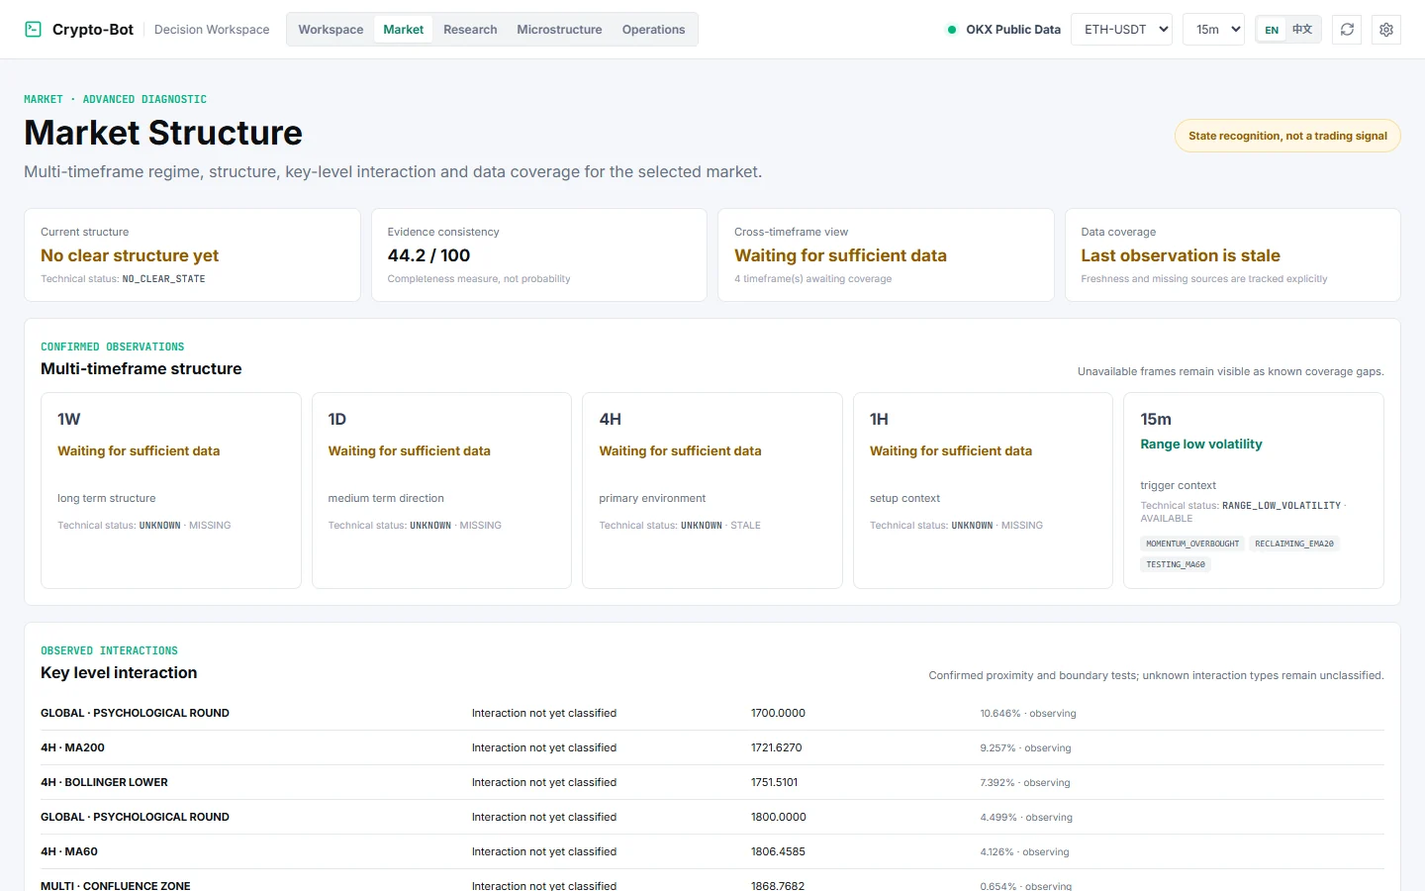
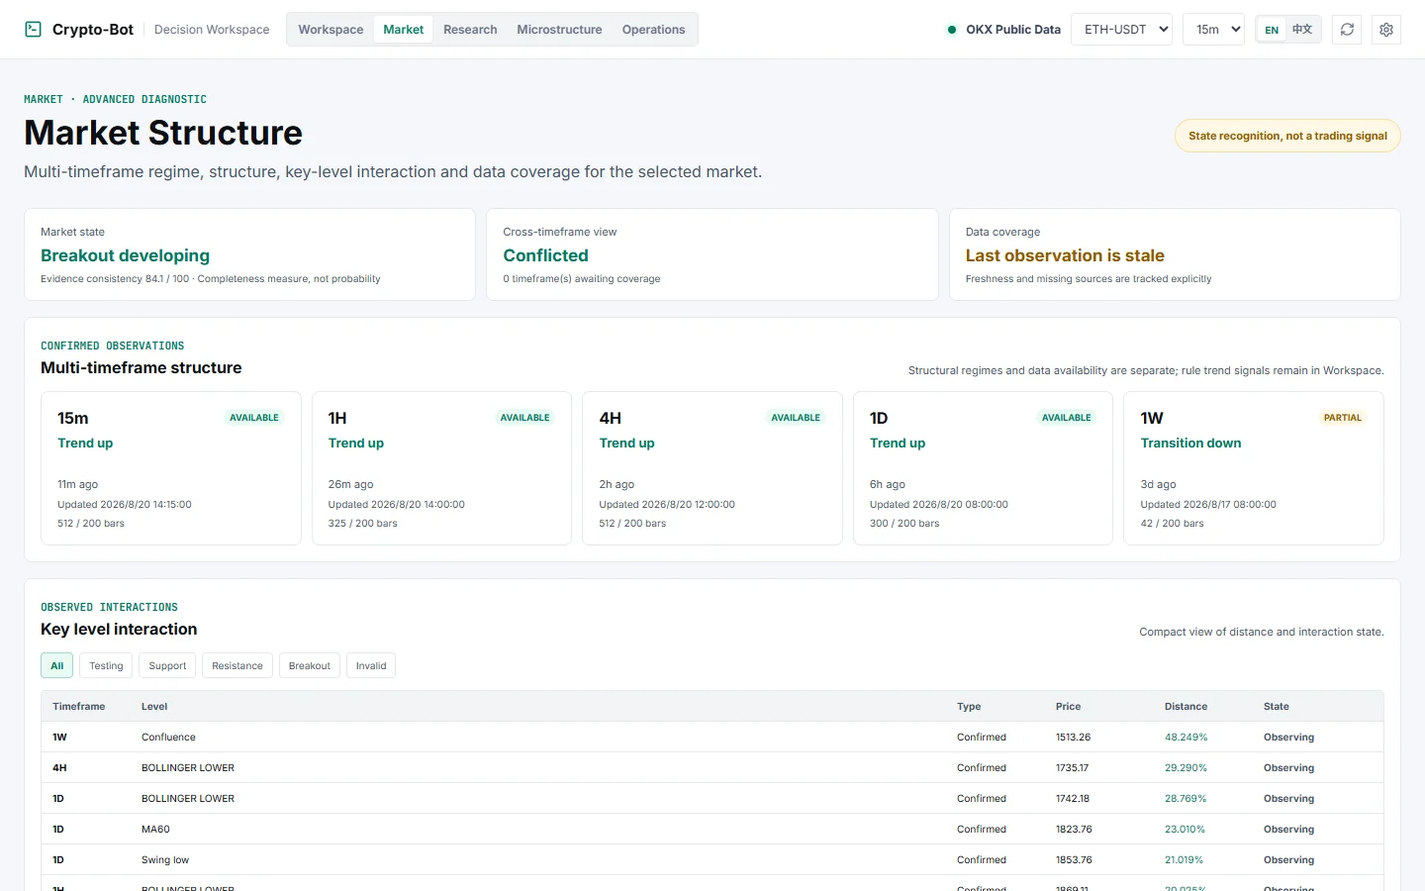
docs: finalize portfolio README and live demo

diff --git a/scripts/build_portfolio_assets.py b/scripts/build_portfolio_assets.py
@@ -22,6 +22,8 @@ ASSETS = ROOT / "docs" / "assets" / "portfolio"
 DEMO_DIR = ROOT / "artifacts" / "portfolio-demo"
 API_URL = "http://127.0.0.1:8765/api/health"
 UI_URL = "http://127.0.0.1:4173/"
+CAPTURE_URL = os.environ.get("PORTFOLIO_BASE_URL", UI_URL)
+PRODUCTION_CAPTURE = CAPTURE_URL.rstrip("/") == "https://bitcoinbot.uk"
 
 
 def ensure_runtime_path() -> None:
@@ -126,7 +128,7 @@ def convert_screenshots() -> list[Path]:
     from PIL import Image
 
     outputs: list[Path] = []
-    for name in ("workspace", "market", "research", "decision-trace"):
+    for name in ("workspace", "market", "research", "ai-report"):
         source = RUNTIME / f"{name}.png"
         target = ASSETS / f"{name}.webp"
         with Image.open(source) as image:
@@ -181,7 +183,7 @@ def verify_images(paths: list[Path]) -> list[dict[str, object]]:
 
 
 def main() -> int:
-    if not (ROOT / "data_cache" / "paper_trades.db").exists():
+    if not PRODUCTION_CAPTURE and not (ROOT / "data_cache" / "paper_trades.db").exists():
         raise RuntimeError("A real persisted data_cache/paper_trades.db is required; no demo returns are synthesized.")
     ensure_runtime_path()
     ensure_pillow()
@@ -189,44 +191,51 @@ def main() -> int:
     ffmpeg = ffmpeg_executable()
     started: list[subprocess.Popen[bytes]] = []
     try:
-        api = None
-        if not http_ready(API_URL):
-            api = hidden_process([sys.executable, "-m", "dashboard.paper_api"], ROOT)
-            started.append(api)
-        wait_ready(API_URL, api)
+        if not PRODUCTION_CAPTURE:
+            api = None
+            if not http_ready(API_URL):
+                api = hidden_process([sys.executable, "-m", "dashboard.paper_api"], ROOT)
+                started.append(api)
+            wait_ready(API_URL, api)
 
-        frontend = None
-        if not http_ready(UI_URL):
-            npm = shutil.which("npm.cmd") or shutil.which("npm")
-            if not npm:
-                raise RuntimeError("npm is required to start the portfolio capture frontend")
-            frontend = hidden_process([npm, "run", "dev", "--", "--port", "4173"], FRONTEND)
-            started.append(frontend)
-        wait_ready(UI_URL, frontend)
+            frontend = None
+            if not http_ready(UI_URL):
+                npm = shutil.which("npm.cmd") or shutil.which("npm")
+                if not npm:
+                    raise RuntimeError("npm is required to start the portfolio capture frontend")
+                frontend = hidden_process([npm, "run", "dev", "--", "--port", "4173"], FRONTEND)
+                started.append(frontend)
+            wait_ready(UI_URL, frontend)
 
         subprocess.run(["node", "scripts/capture-portfolio.mjs"], cwd=FRONTEND, check=True)
         screenshots = convert_screenshots()
 
         demo = DEMO_DIR / "crypto-bot-demo.mp4"
+        capture_metadata = json.loads((RUNTIME / "demo.webm.json").read_text(encoding="utf-8"))
+        story_start = max(0.0, float(capture_metadata["storyStartSeconds"]) - 0.15)
         run_ffmpeg(ffmpeg, [
-            "-ss", "2.7", "-i", str(RUNTIME / "demo.webm"), "-t", "41.5",
-            "-vf", "scale=1280:720:flags=lanczos,fps=30",
-            "-c:v", "libx264", "-preset", "medium", "-crf", "23", "-pix_fmt", "yuv420p",
+            "-ss", f"{story_start:.3f}", "-i", str(RUNTIME / "demo.webm"), "-t", "41",
+            "-vf", "scale=1920:1080:flags=lanczos,fps=30",
+            "-c:v", "libx264", "-preset", "medium", "-crf", "20", "-pix_fmt", "yuv420p",
             "-movflags", "+faststart", "-an", str(demo),
         ])
 
         gif = ASSETS / "crypto-bot-overview.gif"
         gif_story = (
-            "[0:v]trim=start=4:end=7,setpts=PTS-STARTPTS[w];"
-            "[0:v]trim=start=10:end=13,setpts=PTS-STARTPTS[m];"
-            "[0:v]trim=start=17:end=20,setpts=PTS-STARTPTS[r];"
-            "[0:v]trim=start=26:end=29,setpts=PTS-STARTPTS[d];"
-            "[w][m][r][d]concat=n=4:v=1:a=0,fps=9,scale=1120:-1:flags=lanczos,split[s0][s1];"
+            "[0:v]fps=9,scale=1120:630:flags=lanczos,setpts=PTS-STARTPTS[w];"
+            "[1:v]fps=9,scale=1120:630:flags=lanczos,setpts=PTS-STARTPTS[m];"
+            "[2:v]fps=9,scale=1120:630:flags=lanczos,setpts=PTS-STARTPTS[r];"
+            "[3:v]fps=9,scale=1120:630:flags=lanczos,setpts=PTS-STARTPTS[a];"
+            "[w][m][r][a]concat=n=4:v=1:a=0,split[s0][s1];"
             "[s0]palettegen=max_colors=128:stats_mode=diff[p];"
             "[s1][p]paletteuse=dither=bayer:bayer_scale=3"
         )
         run_ffmpeg(ffmpeg, [
-            "-i", str(demo), "-filter_complex", gif_story, "-loop", "0", str(gif),
+            "-loop", "1", "-t", "3", "-i", str(RUNTIME / "workspace.png"),
+            "-loop", "1", "-t", "3", "-i", str(RUNTIME / "market.png"),
+            "-loop", "1", "-t", "3", "-i", str(RUNTIME / "research.png"),
+            "-loop", "1", "-t", "3", "-i", str(RUNTIME / "ai-report.png"),
+            "-filter_complex", gif_story, "-loop", "0", str(gif),
         ])
 
         manifest = {

diff --git a/README.md b/README.md
@@ -2,52 +2,60 @@
 
 A production-style crypto strategy research and paper-trading platform focused on causal evaluation, reproducible experiments, and out-of-time validation.
 
-[![CI](https://github.com/kevin6667890/crypto-bot/actions/workflows/ci.yml/badge.svg?branch=main)](https://github.com/kevin6667890/crypto-bot/actions/workflows/ci.yml) ![Python](https://img.shields.io/badge/Python-3.11+-3776AB?logo=python&logoColor=white) ![React](https://img.shields.io/badge/React-18-149ECA?logo=react&logoColor=white) ![TypeScript](https://img.shields.io/badge/TypeScript-5-3178C6?logo=typescript&logoColor=white) ![Docker](https://img.shields.io/badge/Docker-Compose-2496ED?logo=docker&logoColor=white) ![Research only](https://img.shields.io/badge/Execution-Paper%20only-16856B)
+[![CI](https://github.com/kevin6667890/crypto-bot/actions/workflows/ci.yml/badge.svg?branch=main)](https://github.com/kevin6667890/crypto-bot/actions/workflows/ci.yml) ![Python](https://img.shields.io/badge/Python-3.11+-3776AB?logo=python&logoColor=white) ![React](https://img.shields.io/badge/React-18-149ECA?logo=react&logoColor=white) ![TypeScript](https://img.shields.io/badge/TypeScript-5-3178C6?logo=typescript&logoColor=white) ![Docker](https://img.shields.io/badge/Docker-Compose-2496ED?logo=docker&logoColor=white) ![Paper only](https://img.shields.io/badge/Execution-Research%20%2F%20Paper%20Only-16856B)
+
+**[Live Demo](https://bitcoinbot.uk)** · [Architecture](#architecture) · [Documentation](#documentation)
+
+Public research and paper-trading interface. No exchange account, API key, or live trading is required.
 
 ![Crypto-Bot product overview](docs/assets/portfolio/crypto-bot-overview.gif)
 
-Crypto-Bot joins real OKX market data, a deterministic decision engine, causal historical research, governed strategy discovery, and paper execution in one auditable workspace. It sends no live exchange orders; AI is limited to descriptive summaries and explanations.
+Crypto-Bot combines real OKX market data, deterministic decision logic, causal historical research, governed strategy discovery, evidence-grounded AI analysis, and paper execution in one auditable workspace. It is a full-stack engineering project—not a live trading service—and it never sends orders to an exchange.
 
 ## Why this is more than a backtester
 
 1. **Causal evaluation.** Signals are confirmed at candle close and executed at the next candle open, after complete indicator warm-up and without future-bar leakage.
-2. **Research leakage control.** Experiment families lock development, primary holdout, and optional final OOT periods. Holdout reveal is explicit and durable; later search-space changes mark the evidence as contaminated.
-3. **Reproducible lineage.** Canonical configuration hashes, SHA-256 signal IDs, persisted run lineage, and exact Paper/Research reconciliation make results traceable across restarts.
-4. **Validation beyond in-sample results.** Walk-forward, hidden holdout, final OOT, ETH/SOL transfer, bootstrap/Monte Carlo, and stress tests are recorded. OOT and transfer evidence never changes optimization ranking.
-5. **Manual strategy lifecycle.** Discovery → validation → Shadow → Paper promotion is evidence-driven and manual. Backtest return alone cannot activate a strategy.
+2. **Research governance.** Experiment families separate development, walk-forward validation, hidden holdout, final out-of-time (OOT), and cross-asset transfer evidence. Search-space changes after a reveal mark the family as contaminated.
+3. **Reproducible lineage.** Canonical configuration hashes, SHA-256 signal identities, persisted evidence, and exact Paper/Research reconciliation make results traceable across processes and restarts.
+4. **Production-style operations.** The system combines a React UI, Python services, persistent jobs, SQLite evidence stores, public market-data ingestion, health checks, alerts, and Docker/Nginx deployment.
+5. **Explainable decisions.** Market Structure and Decision Trace show what the deterministic engine observed, which rule blocked action, and what confirmation would be needed next.
 
 ## At a glance
 
 | | |
 |---|---|
+| Live demo | [bitcoinbot.uk](https://bitcoinbot.uk) |
 | Frontend | React, TypeScript, Vite, lightweight-charts |
-| Backend | Python Paper API and deterministic research services |
-| Storage | SQLite with persisted jobs, evidence, and paper ledger |
-| Market data | OKX public candles, trades, ticker, and perpetual OI |
-| Assets | BTC, ETH, and SOL research coverage |
-| Research | Causal backtest, walk-forward, holdout, final OOT, transfer |
-| Execution | Paper only; no exchange keys or live orders |
-| Deployment | Docker Compose and Nginx |
-| AI boundary | Descriptive market summaries and explanations only |
+| Backend | Python Paper API, research services, and background workers |
+| Storage | SQLite stores for jobs, evidence lineage, AI reports, and the paper ledger |
+| Market data | Real OKX public candles, trades, ticker, and perpetual open interest |
+| Assets | BTC, ETH, and SOL |
+| Research | Causal backtesting, walk-forward, hidden holdout, final OOT, and transfer tests |
+| Execution | Paper only; no exchange credentials or live order path |
+| AI role | Audited explanation of persisted evidence; never a strategy or execution authority |
+| Deployment | Docker Compose with an Nginx-served React frontend and same-origin API |
 
 ## Architecture
 
 ```mermaid
 flowchart TD
-    OKX[OKX public market data] --> DC[Collection, confirmation, cache]
-    DC --> DE[Canonical decision engine]
-    DE --> PAPER[Paper workspace]
-    DE --> RESEARCH[Causal research and backtest]
-    DE --> ROUTER[Market state and decision trace]
-    RESEARCH --> DISCOVERY[Strategy discovery]
-    RESEARCH --> GOVERNANCE[Validation and research governance]
-    PAPER --> DB[(SQLite evidence and paper ledger)]
-    ROUTER --> DB
-    DISCOVERY --> DB
-    GOVERNANCE --> DB
-    DB --> API[Python Paper API]
-    API --> UI[React and TypeScript UI]
+    OKX[OKX public market data] --> DATA[Collection, confirmation, quality and cache]
+    DATA --> ENGINE[Deterministic facts and decision engines]
+    ENGINE --> STATE[Market state and Decision Trace]
+    ENGINE --> RESEARCH[Causal research and strategy discovery]
+    ENGINE --> PAPER[Paper execution and risk controls]
+    STATE --> STORE[(Persisted evidence and lineage)]
+    RESEARCH --> STORE
+    PAPER --> STORE
+    STORE --> API[Python API]
+    API --> UI[React and TypeScript product UI]
+    STORE --> CONTEXT[Read-only AI evidence compiler]
+    CONTEXT --> REPORT[Structured AI report]
+    REPORT --> AUDIT[Deterministic report audit and persistence]
+    AUDIT --> API
 ```
+
+The AI path has no control edge back into signals, research ranking, risk rules, strategy activation, or paper execution. Deterministic engines and persisted evidence remain the source of truth.
 
 ## Research lifecycle
 
@@ -63,12 +71,12 @@ flowchart LR
     H --> E[(Persisted evidence lineage)]
     O --> E
     X --> E
-    N[Holdout, OOT, and transfer never feed back into ranking] -.-> H
+    N[Holdout, OOT and transfer never feed back into ranking] -.-> H
     N -.-> O
     N -.-> X
 ```
 
-Only development and walk-forward evidence can affect optimization ranking. Later stages test a frozen candidate and remain descriptive evidence for a manual lifecycle decision.
+Only development and walk-forward evidence can affect optimization ranking. Holdout, final OOT, and transfer results test a frozen candidate; they cannot feed back into ranking and remain evidence for a manual lifecycle decision.
 
 ## Product tour
 
@@ -78,40 +86,51 @@ Only development and walk-forward evidence can affect optimization ranking. Late
     <td><img src="docs/assets/portfolio/market.webp" alt="Market Structure with timeframe and coverage diagnostics"></td>
   </tr>
   <tr>
-    <td><strong>Workspace</strong><br>Current market context, deterministic decision, rule evidence, and paper risk state.</td>
-    <td><strong>Market Structure</strong><br>Multi-timeframe state, key-level interaction, freshness, and explicit coverage gaps.</td>
+    <td><strong>Workspace</strong><br>Live market context, a deterministic paper decision, rule evidence, risk state, and the latest eligible AI analysis.</td>
+    <td><strong>Market Structure</strong><br>Multi-timeframe state, key-level interaction, data lineage, freshness, and explicit coverage gaps.</td>
   </tr>
   <tr>
     <td><img src="docs/assets/portfolio/research.webp" alt="Optimization Lab with persisted experiment evidence"></td>
-    <td><img src="docs/assets/portfolio/decision-trace.webp" alt="Decision Trace explaining a no-trade outcome"></td>
+    <td><img src="docs/assets/portfolio/ai-report.webp" alt="Audited AI analysis with persisted report history"></td>
   </tr>
   <tr>
-    <td><strong>Research</strong><br>Persisted optimization evidence, locked holdouts, validation suites, and contamination tracking.</td>
-    <td><strong>Decision Trace</strong><br>Selected strategy family, supporting evidence, blockers, and the next required confirmation.</td>
+    <td><strong>Research</strong><br>Persisted experiment families, locked holdouts, validation suites, and contamination tracking.</td>
+    <td><strong>AI Analysis</strong><br>Audit-eligible explanation, source-state freshness, persisted history, and reopenable report deep links.</td>
   </tr>
 </table>
 
+## Evidence-grounded AI analysis
+
+The AI report layer consumes a frozen, read-only package of deterministic market and research evidence. Depending on report mode, that package can include confirmed multi-timeframe state, data-quality and lineage flags, order-flow observations, key levels, scenarios, and bounded paper-position context.
+
+Reports are structured, persisted, and tied to their source context, prompt/model versions, evidence registry, and deterministic audit. The UI exposes the latest eligible analysis plus report history and `report_id` deep links. Older reports remain inspectable with freshness labeling; pending or failed-audit reports never expose their generated body as a valid market explanation.
+
+AI can summarize evidence, surface uncertainty and counterevidence, and explain scenarios. It cannot change deterministic signals, choose optimization parameters, influence research ranking, modify risk controls, activate a strategy, or create an order.
+
 ## Engineering highlights
 
-- One canonical `evaluate_decision` path shared by paper execution and historical research.
+- One canonical decision path shared by paper execution and historical research.
 - Canonical JSON configuration hashes and deterministic signal identities.
-- Restart-safe SQLite job queue with limits, deduplication, cancellation, and retries.
-- Real OKX ingestion with confirmation filtering, deduplication, pagination, gap reporting, and caching.
-- Causal next-bar execution with explicit fees, slippage, and conservative intrabar collision handling.
-- Durable experiment-family lineage, holdout reveal, OOT suites, and contamination audit flags.
+- Restart-safe SQLite job queues with limits, deduplication, cancellation, and retries.
+- Real OKX ingestion with confirmation filtering, symbol normalization, pagination, gap reporting, and caching.
+- Explicit UTC candle lineage across BTC, ETH, and SOL.
+- Causal next-bar execution with fees, adverse slippage, and conservative intrabar collision handling.
+- Durable experiment-family lineage, holdout reveal, OOT suites, transfer tests, and contamination flags.
 - Exact Paper/Research reconciliation instead of inferred matches.
-- Dockerized Python API and Nginx-served React production architecture.
+- AI report identity, immutable evidence registries, deterministic claim audits, retention controls, and kill-switch protection.
+- Dockerized Python services and an Nginx-served React production architecture.
 
 ## Research integrity
 
-- Research and paper trading only; the project does not place live orders.
-- Confirmed candles only, causal indicators, complete slow-MA warm-up, and next-candle-open execution.
+- Confirmed candles only, causal indicators, complete slow-moving-average warm-up, and next-candle-open execution.
 - Fees and adverse slippage are applied; a same-bar stop/target collision records the stop first.
-- Historical CVD/OI is never fabricated. Missing or partial coverage remains visible and cannot silently become zero.
-- Primary holdouts are hidden until an explicit, durable reveal. Final OOT and cross-asset results never affect ranking.
-- Strategy promotion is manual; there is no AI parameter search, online self-learning, or automatic activation.
+- Historical cumulative volume delta (CVD) and open interest (OI) are never fabricated. Missing or partial coverage remains visible and cannot silently become zero.
+- Primary holdouts stay hidden until an explicit, durable reveal. Final OOT and cross-asset evidence never affect ranking.
+- Strategy promotion is manual. There is no AI parameter search, online self-learning, automatic activation, or live exchange order path.
 
 ## Quick start
+
+For a no-install walkthrough, open the **[Live Demo](https://bitcoinbot.uk)**.
 
 ```bash
 # Backend
@@ -124,7 +143,7 @@ npm ci
 npm run dev
 ```
 
-Open `http://127.0.0.1:5173`.
+Open `http://127.0.0.1:5173` for local development.
 
 ```bash
 # Docker
@@ -133,16 +152,19 @@ docker compose up -d --build paper-api frontend
 
 ## Reproduce the portfolio assets
 
-The screenshots, looping README GIF, and approximately 41-second H.264 demo are generated from the real application with Playwright and ffmpeg:
+The screenshots, looping README GIF, and approximately 41-second H.264 demo are generated from the application with Playwright and ffmpeg:
 
 ```bash
+# Capture the deployed product shown in this README (PowerShell)
+$env:PORTFOLIO_BASE_URL="https://bitcoinbot.uk"
 python scripts/build_portfolio_assets.py
 ```
 
-The command connects to healthy local services or starts them, captures fixed viewports, converts and verifies the media, prints dimensions and file sizes, and shuts down only the processes it created. It requires an existing real `data_cache/paper_trades.db`; it never synthesizes profitable results. The MP4 is written to `artifacts/portfolio-demo/crypto-bot-demo.mp4` and intentionally ignored by Git.
+The workflow captures fixed viewports, converts and verifies the media, performs visible-text privacy checks, and shuts down only processes it created. Without `PORTFOLIO_BASE_URL`, local capture requires an existing real `data_cache/paper_trades.db`; it never synthesizes profitable results. The MP4 is written to `artifacts/portfolio-demo/crypto-bot-demo.mp4` and intentionally ignored by Git.
 
 ## Documentation
 
+- [AI analysis architecture and safety boundary](docs/ai_market_analysis/README.md)
 - [Research and strategy discovery architecture](docs/strategy_discovery_architecture.md)
 - [Research API](docs/API.md)
 - [Operations and deployment](docs/OPERATIONS.md)

diff --git a/docs/ai_market_analysis/README.md b/docs/ai_market_analysis/README.md
@@ -1,28 +1,62 @@
-# Phase AI-1: professional market-analysis contract
+# Evidence-grounded AI market analysis
 
-This directory is a design and static-validation deliverable. It does not change a production API, collector, aggregation task, strategy, order path, prompt, database, or deployment. Every value under `fixtures/ai_market_analysis` is synthetic design-test data, never a claim about the current market.
+The AI market-analysis subsystem turns frozen deterministic evidence into structured, auditable explanations. It is an analysis and presentation layer: it does not own market facts, strategy selection, optimization, risk rules, activation, or order execution.
 
-The target flow is:
+## Current flow
 
-`raw observations → deterministic indicators/quality → deterministic structure → staged order-flow attribution → levels/scenarios → MarketAnalysisContext → LLM wording → fact audit → UI`.
+```text
+confirmed public observations
+  -> deterministic market facts, quality, structure, levels and scenarios
+  -> immutable context and evidence registries
+  -> bounded structured report request
+  -> provider-generated report
+  -> deterministic schema, reference, numeric and semantic audits
+  -> persisted report presentation, history and deep links
+```
 
-Contract version `v1` deliberately differs from the existing research-only `MarketAnalysisContextV2`: V2 is a valuable input, but it does not contain the timeline, staged attribution, scenario tree, position-plan semantics, macro provenance, report request/response, or post-generation audit required here.
+The implementation is split across `dashboard/ai_market_analysis/`, the read-only presentation endpoints in `dashboard/paper_api.py`, and `frontend/src/AiReportPresentation.tsx`. The React product displays only an audit-eligible report body. A newer pending or failed report does not replace the last eligible historical report, and stale or superseded evidence is labeled rather than presented as current.
 
-Files:
+## Evidence and identity
 
-- `current_system_audit.md`: evidence-backed current call chain and data inventory.
-- `current_vs_target_gap.md`: capability-by-capability gap analysis.
-- `contract_and_causality.md`: target modules, fields, causal and gap rules, report modes.
-- `golden_evaluation.md`: golden sample, anti-patterns, automated scores.
-- `implementation_plan.md`: file-level AI-2 through AI-6 plan and budgets.
-- `schemas/ai_market_analysis/*.schema.json`: Draft 2020-12 contracts.
-- `fixtures/ai_market_analysis/*.json`: one ETH golden context and five attribution counterexamples.
-- `tests/test_ai_market_analysis_contract.py`: structural and cross-object semantic validation.
+Each report is bound to an instrument, report mode, language, confirmed decision time, context identity, registry snapshot, prompt/model versions, and source-version manifest. The context can include:
 
-Status vocabulary in audit tables:
+- multi-timeframe trend, structure, momentum, volume and data-quality facts;
+- deterministic market phase, key levels, invalidations and scenario trees;
+- staged order-flow observations with explicit missing or partial coverage;
+- bounded paper-position context when the selected mode permits it;
+- verified macro evidence only when the source and runtime policy permit it.
 
-- `EXISTS`: directly proven in the named source.
-- `PARTIAL`: useful implementation exists but does not meet the target contract.
-- `NOT_IMPLEMENTED`: repository evidence proves no target implementation on this baseline.
-- `UNKNOWN`: code does not prove the fact.
-- `REQUIRES_RUNTIME_AUDIT`: only a live read-only coverage query can determine the answer.
+Report, context, registry, audit and presentation identities remain persisted so the UI can reopen report history through a `report_id` deep link and preserve provenance across restarts.
+
+## Deterministic safety boundary
+
+The AI layer may summarize the frozen evidence, organize supporting and conflicting observations, describe uncertainty, and explain conditional scenarios. It cannot:
+
+- mutate a deterministic fact or signal;
+- choose or search strategy parameters;
+- influence optimization ranking, holdout, OOT, or transfer results;
+- bypass data-quality or audit failures;
+- change paper risk controls or strategy lifecycle state;
+- activate a strategy or create an exchange order.
+
+Generated text is not trusted on arrival. A deterministic audit validates its schema, evidence references, numeric grounding, direction semantics, context identity, and eligibility. Pending, failed, mismatched, or legacy-schema reports fail closed.
+
+## Persistence and operations
+
+Reports, requests, frozen contexts, registry snapshots, audits and lifecycle events use a separate SQLite-backed evidence store. The runtime includes bounded queues, concurrency and token/cost budgets, retry classification, retention/archive controls, health reporting, privacy checks, and a durable live-provider kill switch. Provider credentials remain server-side and are never part of a report, URL, frontend bundle, or captured portfolio asset.
+
+The public product surface exposes read-only summaries, history and eligible report details. Administrative Shadow presentation and position-detail paths remain separately gated.
+
+## Document map
+
+The remaining files in this directory record the subsystem's design history, staged rollout controls, audits, and operational evidence. Earlier phase documents intentionally describe the state at their recorded commit and should not be read as the current repository status.
+
+- `contract_and_causality.md`: causality rules and report contracts.
+- `golden_evaluation.md`: golden cases, anti-patterns and evaluation criteria.
+- `current_system_audit.md` and `current_vs_target_gap.md`: historical baseline and gap analysis.
+- `implementation_plan.md`: staged AI-2 through AI-6 implementation plan.
+- `ai6_production_readiness_checklist.md`: rollout gates and evidence requirements.
+- `ai6_production_canary_runbook.md` and `ai6_rollback_runbook.md`: bounded operations and rollback controls.
+- `ai6_privacy_review.md`: privacy and exposure review.
+
+No historical document authorizes autonomous trading or changes the deterministic research and paper-execution boundary.
